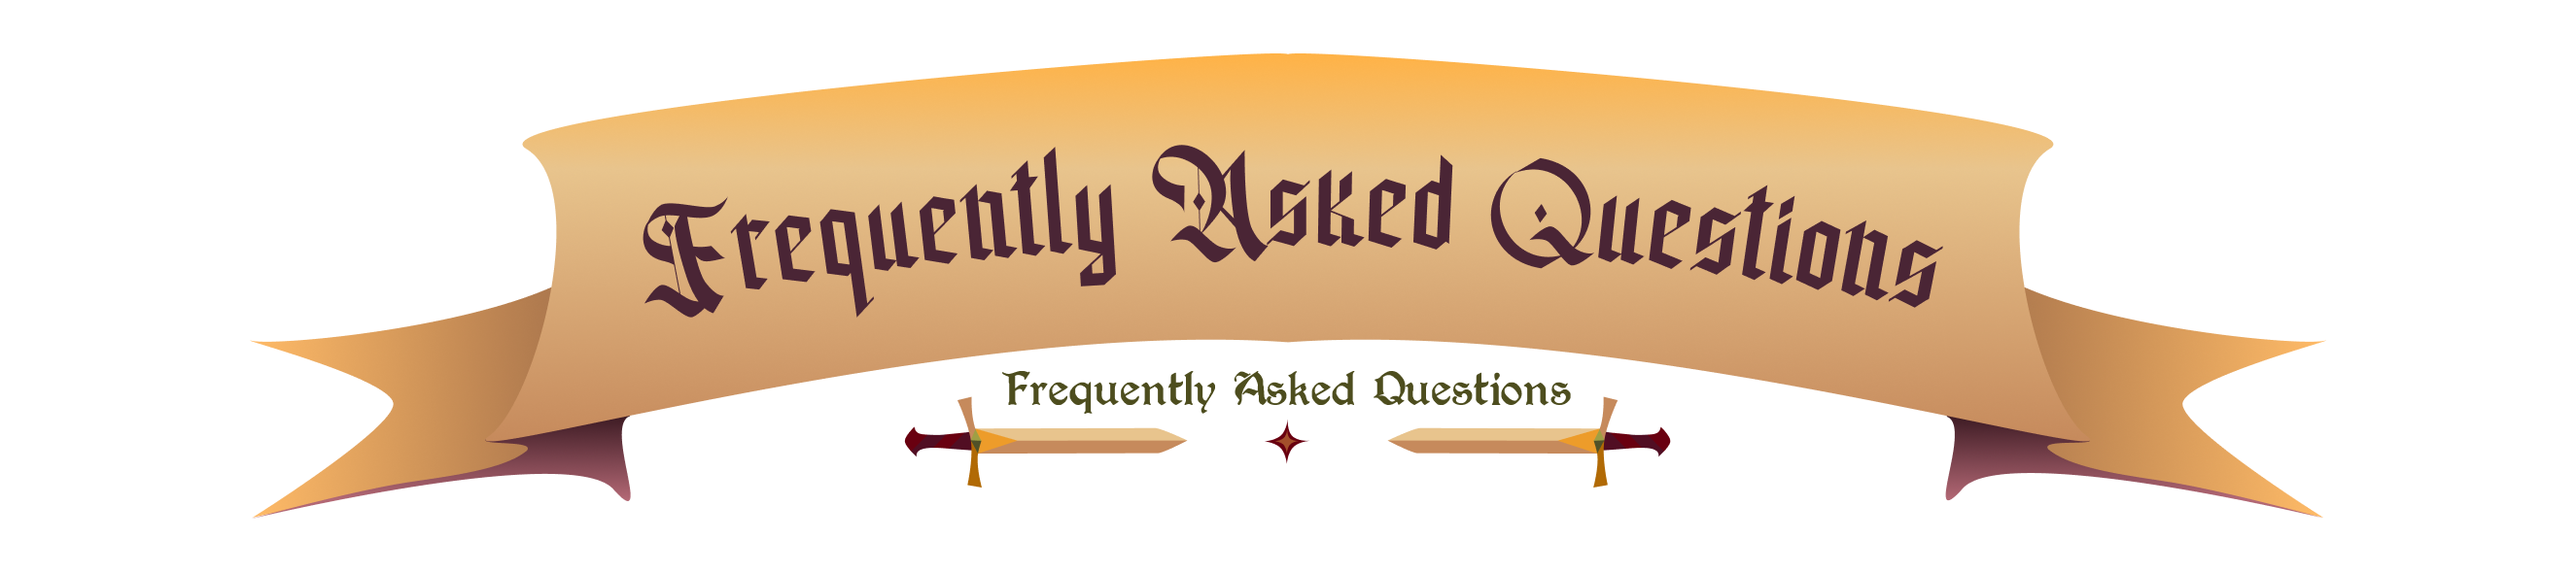
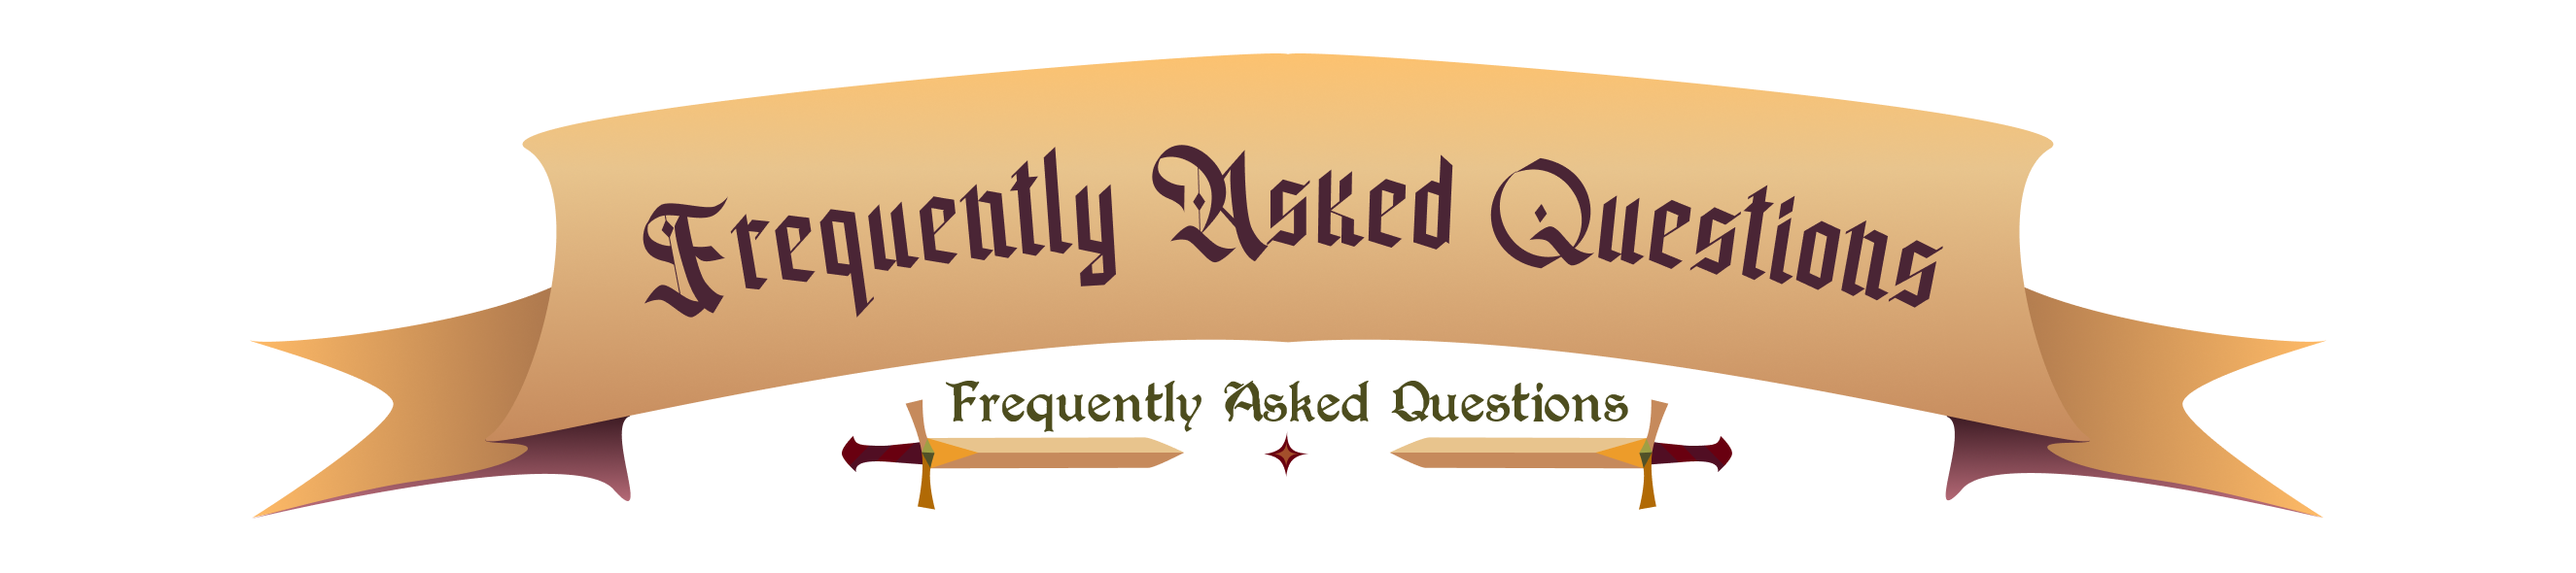
change colors

Changed region(s): [[0.3094, 0.6407, 0.6808, 0.8847], [0.2785, 0.0915, 0.7117, 0.1831]]

diff --git a/src/app/css/faq.css b/src/app/css/faq.css
@@ -13,7 +13,7 @@
   
   .faq-section-title {
     text-align: center;
-    margin-bottom: 25px;
+    margin-bottom: 8px;
     width: 100%;
     max-width: 1200px;
     padding: 0 16px;
@@ -77,7 +77,7 @@
     position: relative;
     user-select: none;
     border: none;
-    background: linear-gradient(to bottom, #a4502c, #dc9a44, #a4502c);
+    background: #690010;
     text-align: left;
     transition: all 0.3s ease;
     border: 1px solid rgba(255, 255, 255, 0.3);
@@ -98,22 +98,22 @@
   }
   
   .faq-question:hover {
-    background-color: #E9D8A6; /* Even darker on hover */
-    color: #000000;
+    background: #8a0015;
+    color: #ffffff;
   }
 
   .faq-question:hover::after {
-    color: #000000;
+    color: #E9D8A6;
   }
   
   .faq-toggle:checked + .faq-question {
-    background-color: #E9D8A6; /* Match hover color when active */
-    color: #000000;
-    border-bottom: 1px solid #E9D8A6;
+    background: #690010;
+    color: #ffffff;
+    border-bottom: 1px solid rgba(233, 216, 166, 0.4);
   }
 
   .faq-toggle:checked + .faq-question::after {
-    color: #000000;
+    color: #E9D8A6;
     transform: rotate(180deg);
   }
 
@@ -122,9 +122,9 @@
     display: none;
     font-size: 1rem;
     line-height: 1.5;
-    color: #ffffff;
-    background: linear-gradient(to bottom, #680a15, #a34e2b, #680a15);
-    border-top: 3px solid rgba(233, 216, 166, 0.3);
+    color: #391C36;
+    background: #E9D8A6;
+    border-top: 3px solid rgba(105, 0, 16, 0.25);
   }
   
   .faq-toggle:checked + .faq-question + .faq-answer {
@@ -138,15 +138,15 @@
   }
   
   .faq-answer a {
-    color: #E9D8A6;
+    color: #690010;
     text-decoration: underline;
     transition: color 0.3s;
     font-weight: bold;
   }
 
   .faq-answer a:hover {
-    color: #ffffff;
-    text-shadow: 0 0 5px rgba(255, 255, 255, 0.5);
+    color: #a4502c;
+    text-shadow: none;
   }
   
   @media (max-width: 768px) {
@@ -174,10 +174,16 @@
     }
 
     .faq-section-title {
-      margin: 0 -20px 20px;
+      margin: 0 -28px 4px;
       padding: 0;
-      width: calc(100% + 40px);
+      width: calc(100% + 56px);
       max-width: none;
+    }
+
+    .faq-header-img {
+      width: 100%;
+      transform: scale(1.12);
+      transform-origin: center;
     }
   }
   
